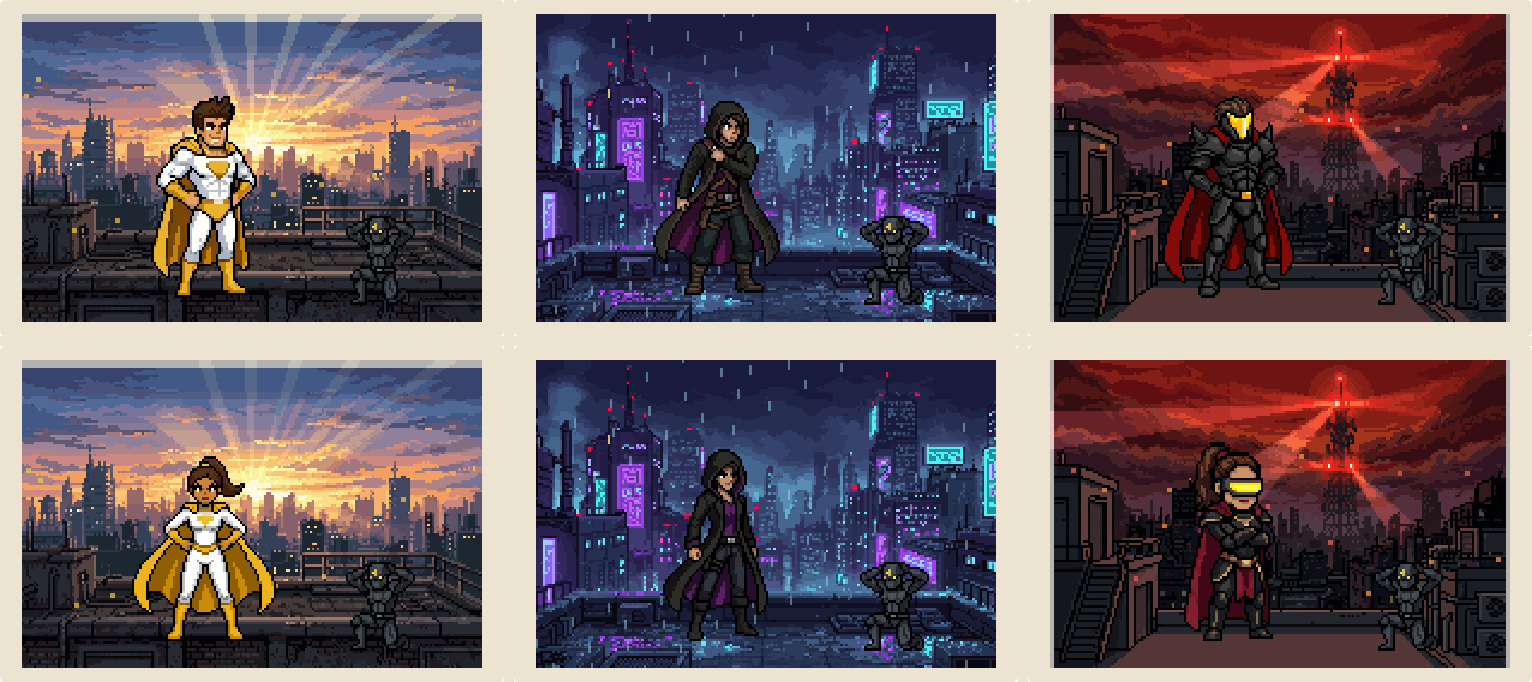
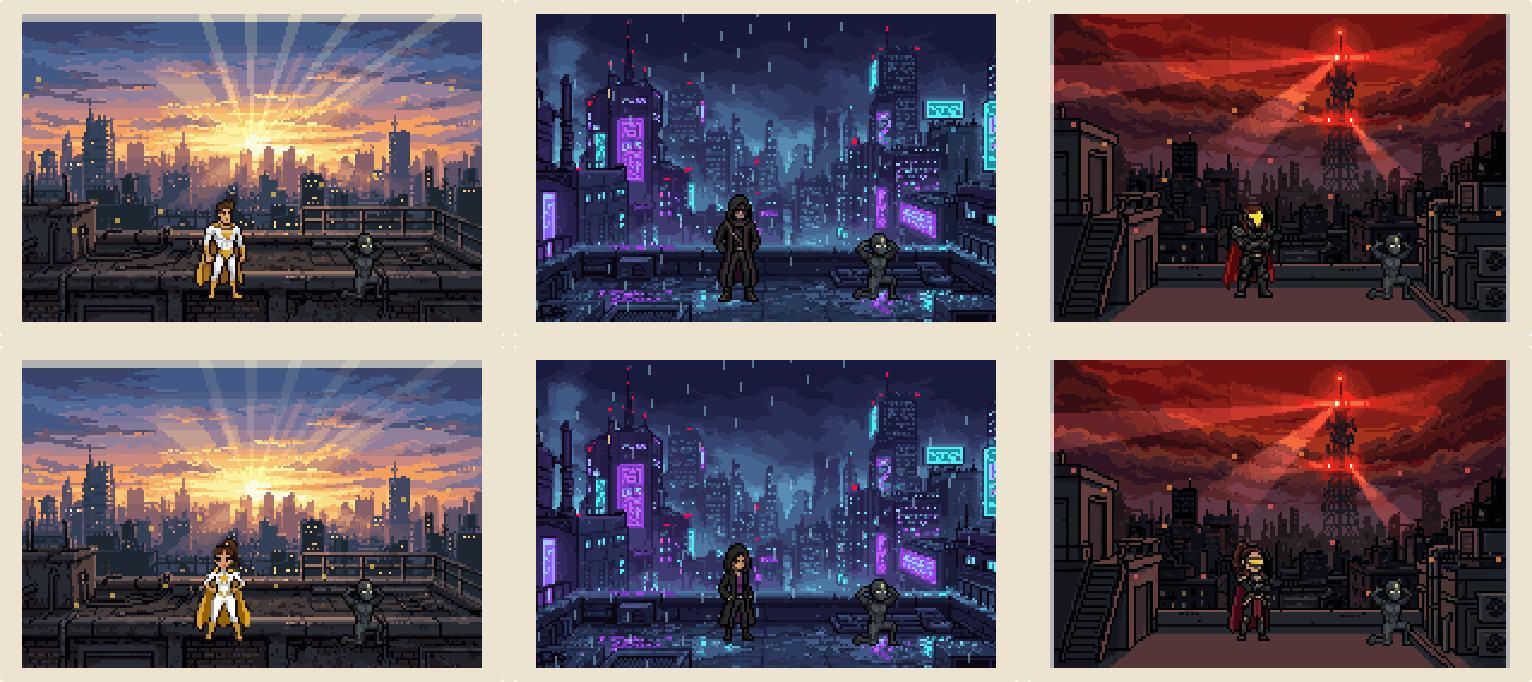
마지막 장면 영웅 6종을 현실 비율·배경 크기에 맞춘 그림으로 교체
Claude-Session: https://claude.ai/code/session_01HUUqL8HGhcjcrTPnzPKGn3

diff --git a/README.md b/README.md
@@ -100,7 +100,7 @@ public/assets  아이콘(SVG)
 3. `npm run art:manifest`를 실행하면 크기를 검사해 `manifest.json`을 만들고, 빠지거나 제외된 파일을 알려 줍니다.
 4. 커밋해 `main`에 푸시하면 자동 배포됩니다.
 
-현재 51개 슬롯 중 48개가 PixelLab으로 만든 그림입니다(바닥·벽·출구 타일 3개는 기본 도트 유지). 마지막 영웅 장면은 엔딩별 배경 일러스트(192×128) 3장, 크게 그린 영웅(64×96) 6종, 항복한 블랙아웃으로 구성되며, 엔딩별 분위기 연출(빛줄기·비·탐조등)과 아이가 빛에 감싸여 어른이 되는 성장 연출이 붙습니다. 생성은 `scripts/pixellab_generate.py`로 했습니다.
+현재 51개 슬롯 중 48개가 PixelLab으로 만든 그림입니다(바닥·벽·출구 타일 3개는 기본 도트 유지). 마지막 영웅 장면은 엔딩별 배경 일러스트(192×128) 3장, 배경 크기에 맞춘 현실 비율(약 7등신, 키 약 48px) 영웅 6종과 항복한 블랙아웃으로 구성되며, 엔딩별 분위기 연출(빛줄기·비·탐조등)과 아이가 빛에 감싸여 어른이 되는 성장 연출이 붙습니다. 생성은 `scripts/pixellab_generate.py`로 했습니다.
 - `python3 scripts/pixellab_generate.py gen <슬롯…>`: PixelLab `generate-image-v2`(백그라운드 작업)로 슬롯당 변형 64장(성인은 36장)을 만들고, 구독 생성 횟수 10회를 씁니다.
 - 변형 비교 시트는 `art-src/sheets/`, 고른 번호는 `art-src/picks.json`에 있습니다. `pick 슬롯=번호`로 바꿀 수 있습니다.
 - 그림체는 `art-src/style.png`(잔해 7번)를 스타일 참고로, 하람의 표정·방향·성인 모습은 고른 기본 모습을 캐릭터 참고로 맞췄습니다. 미니게임 왼쪽 방향은 오른쪽 그림을 좌우 반전했습니다.
